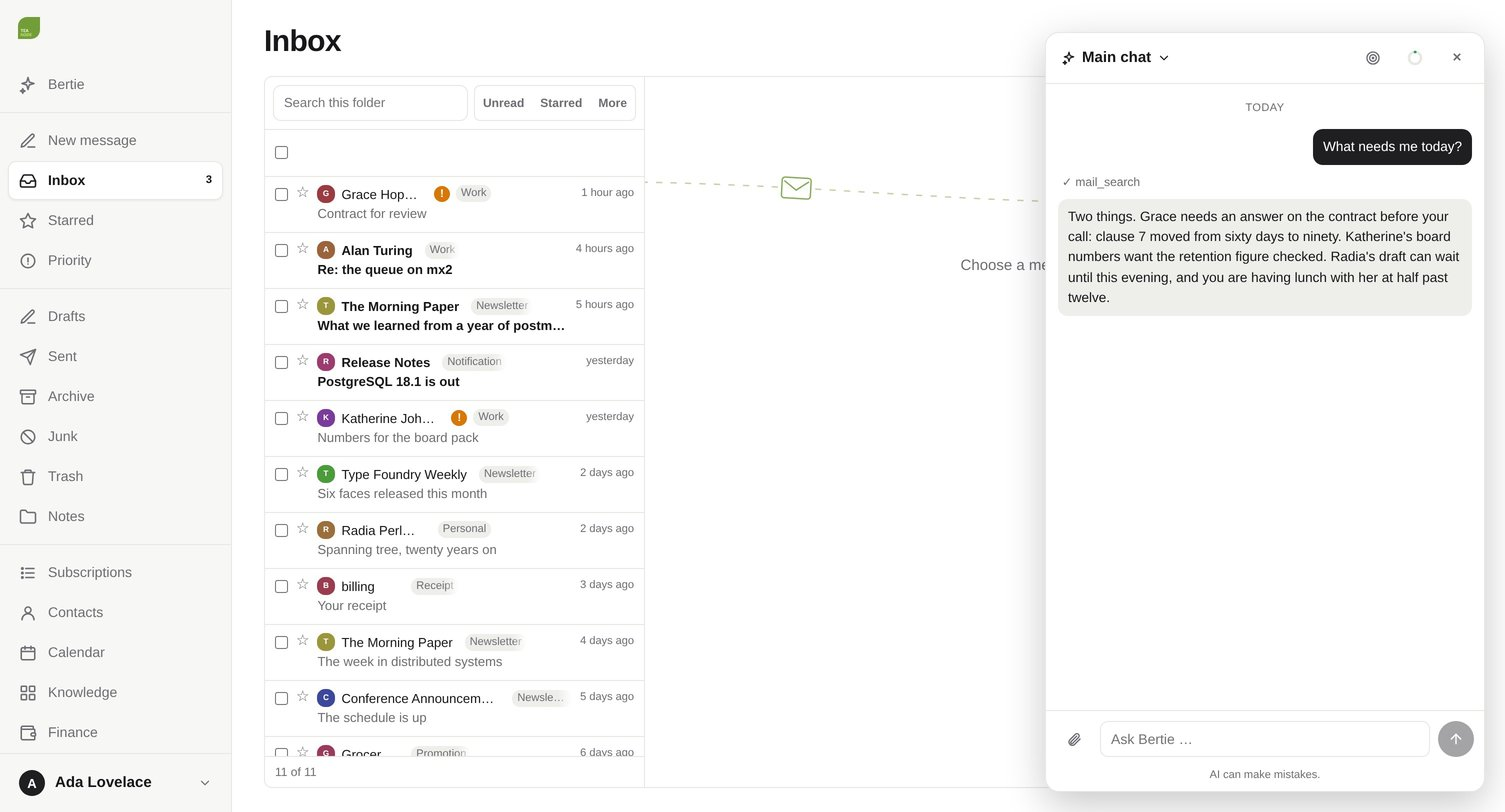
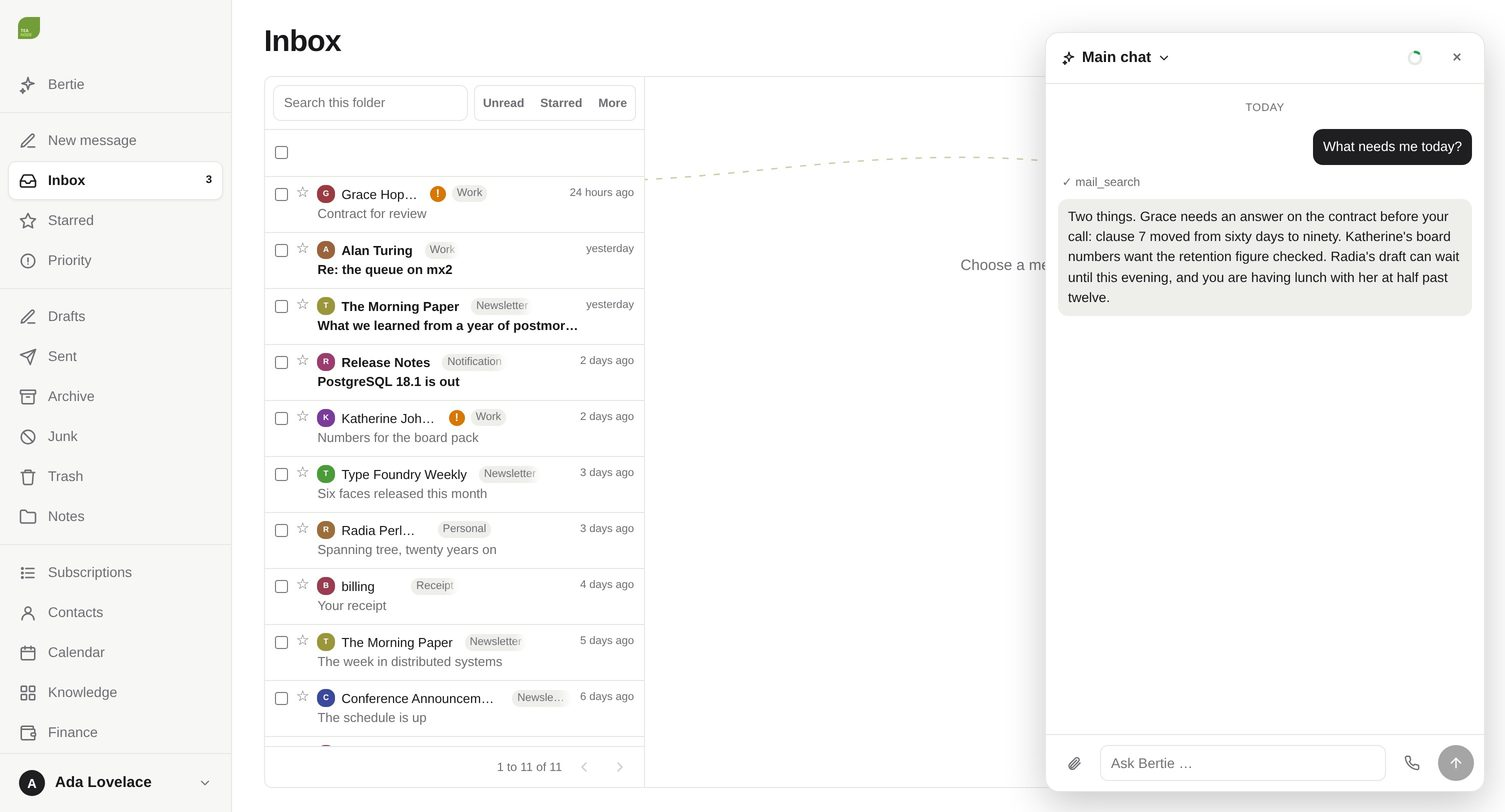
docs: coding sessions, their memory hooks, voice and receipts in the readme and docs (#375)
* docs(readme): voice calls, coding sessions and receipts, with screenshots from v0.124.0

* docs: memory shown to coding sessions by hooks, in the readme and a subsystem overview

Also correct teanode computer --help, which still said only a conversation
the person is present in may use the computer.

diff --git a/internal/cmd/computer.go b/internal/cmd/computer.go
@@ -37,13 +37,14 @@ func NewComputerCommand() *cli.Command {
 	}
 	return &cli.Command{
 		Name:  "computer",
-		Usage: "attach this computer to your agent, so it can run commands and read files here while you talk to it",
+		Usage: "attach this computer to your agent, so it can run commands and read files here",
 		Description: "While the program runs, your agent has two more tools: shell, which runs a command here, and\n" +
 			"filesystem, which reads, writes, lists and searches your files — as you, anywhere on this\n" +
-			"machine, the way a terminal of yours would. Only a conversation you are present in may use\n" +
-			"them, and what changes the machine or reaches out of it asks you first. 'start' runs the\n" +
-			"program in the background and 'stop' ends it; 'daemon' is the same program in the foreground,\n" +
-			"for a terminal or a service manager.",
+			"machine, the way a terminal of yours would. Your conversations, schedules and goals may use\n" +
+			"them whether or not you are there; what changes the machine or reaches out of it asks you\n" +
+			"first, and is refused when nobody is there to answer. 'start' runs the program in the\n" +
+			"background and 'stop' ends it; 'daemon' is the same program in the foreground, for a\n" +
+			"terminal or a service manager.",
 		Commands: []*cli.Command{
 			{
 				Name:   "daemon",

diff --git a/README.md b/README.md
@@ -28,8 +28,9 @@ Each person can turn on an agent of their own, pointed at a model the operator
 chose (OpenAI, Anthropic, Gemini, an Ollama or vLLM on the same machine, or a
 ChatGPT plan). It sorts the mail that arrives, drafts replies, answers
 questions with exactly that person's permissions, keeps a memory of what it
-learns, and can read the banks and cards they link. It is off until somebody
-turns it on.
+learns, and can read the banks and cards they link. You can call it from the
+dashboard and talk, and it can see and prompt the Claude Code and Codex
+sessions on your computers. It is off until somebody turns it on.
 
 ```mermaid
 flowchart LR
@@ -83,6 +84,20 @@ The agent is a drawer on every page. Asked what needs you today, it searches
 your mail and answers from what it found; anything it cannot undo, and
 anything that leaves the server, waits for you to approve it.
 
+![A voice call in the drawer](docs/images/voice.jpg)
+
+Press the telephone beside send and talk. Each thing you finish saying goes to
+the agent as a turn, and the answer is read back as it is written; you can
+cut in, or mute the microphone for a word with somebody else.
+
+![A coding session's question in the drawer](docs/images/coding-session.jpg)
+
+With herdr on your computers, the agent sees every Claude Code and Codex
+session, reads what each did, types into one where you can see it, and brings
+you the questions they stop to ask, with the options as buttons. The other
+way round, hooks show those sessions what the agent's memory knows about the
+checkout they run in.
+
 ![The agent's own settings page](docs/images/agent.jpg)
 
 Its own page says what to call it, how it should write, which mailboxes it may
@@ -102,6 +117,11 @@ The same pages as a graph, joined by links that say how they relate.
 Link a bank, a card or a brokerage through Plaid or SimpleFIN, and the Finance
 page shows where the money went, against budgets that say where the month is
 heading.
+
+![A receipt matched to its charge](docs/images/finance-receipt.jpg)
+
+A receipt photographed into the chat is kept line by line, checked against its
+printed totals and matched to the charge it explains.
 
 ![Net worth and assets](docs/images/finance-net-worth.jpg)
 
@@ -219,10 +239,31 @@ is granted one. It sorts what arrives, summarizes long conversations, drafts
 replies in your voice, and can answer on your behalf under a policy you write.
 It answers questions in a drawer on every page or with `teanode agent ask`,
 through the same operations the dashboard uses, with your permissions. It can
-reach your calendar and contacts, your own computer and browser tab while you
-are present, the web, and servers you connect over the Model Context
-Protocol. It tells you, unasked, when mail shows something that cannot wait,
+reach your calendar and contacts, your own computer and browser tab, the web,
+and servers you connect over the Model Context Protocol. It tells you, unasked, when mail shows something that cannot wait,
 within quiet hours and a daily limit you set. Operators cap what it may spend.
+
+**Talk to it.** A call in the drawer, on a laptop or a phone: what you say is
+transcribed as you say it, the answer is written for the ear and read back,
+and you can talk over it. The operator turns it on and the provider's key
+never leaves the server.
+
+**Your coding sessions.** Through herdr on each attached computer, the agent
+lists your Claude Code and Codex sessions, reads them, types an instruction
+into one, answers the questions they ask, and tells you when one finishes.
+
+**Memory in your coding sessions.** `teanode hook install claude-code` (or
+`codex`) adds hooks that show each session what the agent knows about the
+checkout it runs in. When a session starts: the project's page and its facts
+most in use, and where the last session in that directory stopped (your last
+requests and the start of its last answer, read from the transcript). Before
+each prompt: what the prompt recalls and the lessons close to it, kept to the
+checkout's project so your mail and money stay out of the coding tool. After
+each answer: the computer's transcript source reads the session within a
+minute, so the next one knows where this one stopped. A hook that fails shows
+nothing and never stops the tool, and `teanode agent memory checkout` prints
+what a session would be shown. [Memory in coding
+sessions](https://teanode.com/doc/coding-memory) has the details.
 
 **A memory that learns you.** The agent keeps what it learns as a graph of
 pages, each fact numbered and tied to the words it came from. It writes pages
@@ -232,12 +273,15 @@ Nothing is deleted, and every change can be put back.
 
 **Finance.** Banks, cards, brokerages and lenders linked through Plaid or
 SimpleFIN, kept in your own database: transactions in your own categories,
-budgets that project the month, savings targets, and net worth over time. The
+budgets that project the month, savings targets, and net worth over time.
+Accounts no provider reaches come in from an OFX statement or from
+screenshots, and receipts are kept line by line against their charges. The
 agent reads the same rows, so you can ask it how the month is going.
 
-**Model Context Protocol, both ways.** An editor or a coding tool can use your
-agent's tools and ask it questions; approve it in your browser and there is no
-token to copy.
+**Model Context Protocol, both ways.** An editor, a coding tool, or ChatGPT or
+Grok on your phone can use your agent's tools and ask it questions, so you can
+check on your coding sessions by voice from the car; approve it in your
+browser and there is no token to copy.
 
 **Relays your outbound mail.** Per-device SMTP credentials on the submission
 port, each optionally restricted to one sender address.

diff --git a/docs/subsystems/coding-sessions.md b/docs/subsystems/coding-sessions.md
@@ -1,0 +1,66 @@
+# Coding sessions
+
+The person's Claude Code and Codex sessions meet the agent in three places,
+each built on something that exists for its own reasons. This page says how
+they fit together; the detail is in the sections it points to.
+
+| Direction | What happens | Built on | Detail |
+| --- | --- | --- | --- |
+| sessions into memory | their transcripts are read, searchable and filed | the `claude-code` and `codex` source types | `memory.md`, "Where it reads from" |
+| memory into sessions | each session is shown what memory knows about its checkout | `teanode hook` | `memory.md`, "In the person's coding sessions" |
+| the agent into sessions | the agent lists, reads, types into and answers them | herdr and the computer program | `devices.md`, "Herdr" |
+
+## Sessions into memory
+
+A source of type `claude-code` or `codex`, installed from the signed registry
+and run on the person's computer, reads the tool's transcripts as chat
+documents: what the person asked and what the session answered, not the
+commands it ran. They are searchable like any document, the dream files what
+they taught, and each unit keeps the session's id and working directory, which
+is how the last session in a directory is found (migration 0156 indexes them by
+directory). A source asked to read again now goes ahead of the computer's
+other sources.
+
+## Memory into sessions
+
+`teanode hook install claude-code|codex` (`internal/cmd/hook.go`) adds hooks
+for five events: `SessionStart` (30 seconds), `UserPromptSubmit` (15), `Stop`
+and `PreCompact` (10), and `SessionEnd` (3, the most Codex allows). What they
+print is wrapped in `<teanode-memory>` and decided by `internal/agent/coding.go`:
+
+- **SessionStart:** the checkout's project pages with their liveliest facts,
+  and the last session held in that directory or checkout: its title, the
+  person's last three requests and the start of its last answer, read from
+  the stored transcript rather than written by a model.
+- **UserPromptSubmit:** the recall a turn does, kept while recall chooses to
+  the checkout's project, the pages under it, what it links to by a stated
+  link, and lessons at a similarity of at least 0.45; less pages shown in the
+  last five prompts, and nothing for a prompt under three words, a slash
+  command, or text the tool sends on its own.
+- **Stop, PreCompact, SessionEnd:** `CaptureAgentCodingSession` asks the
+  computer's source of that tool's type to read again now.
+
+The checkout is found from the profile's "The checkout is at ... on ..." line
+on the session's own computer, else by the git remotes against the profile's
+"Lives at" line, with the commit memory read it at. A hook never fails the
+tool: it exits 0, shows nothing, and writes what went wrong to `hook.log` in
+the user's cache directory. The same blocks are on the memory tool's
+`checkout` action, the API (`ReadAgentCodingContext`,
+`RecallAgentCodingMemory`), `teanode agent memory checkout` and the Recall
+dialog. The decision is
+`docs/decisions/20261009-coding-sessions-are-shown-memory-by-hooks.md`.
+
+## The agent into sessions
+
+The program on each computer watches herdr's socket, recognizes the forms a
+session draws for a question, an approval and a plan, and reports them to the
+server. The `herdr` tool, the Herdr sessions card and `teanode computer herdr`
+list sessions, read their history or screen, type into a pane, answer a
+question, watch a session until its turn ends, and open or close one. A
+question is written into the person's main conversation and sent to their
+linked chat app; the answer is pressed only after the screen is read again.
+The decision is
+`docs/decisions/20261008-the-agent-works-in-the-persons-herdr-sessions.md`.
+
+The three are independent. Hooks need no herdr, herdr needs no hooks, and
+without a transcript source the hooks still show what was filed before.

diff --git a/docs/subsystems/README.md b/docs/subsystems/README.md
@@ -21,6 +21,7 @@ change with it.
 | `memory.md` | What an agent remembers, how it is recalled, and by what meaning |
 | `jobs-and-schedules.md` | The queue, claiming, retries, and work at a time somebody chose |
 | `devices.md` | A person's own computer and their own browser tab |
+| `coding-sessions.md` | Claude Code and Codex: their transcripts read, memory shown to them by hooks, and herdr |
 | `voice.md` | Talking to the agent: the microphone, the provider's transcription, spoken turns |
 | `skills.md` | Tools installed from a signed registry, and how they are carried out |
 | `mcp.md` | The Model Context Protocol both ways: servers the agent connects to, and harnesses that use its tools |
